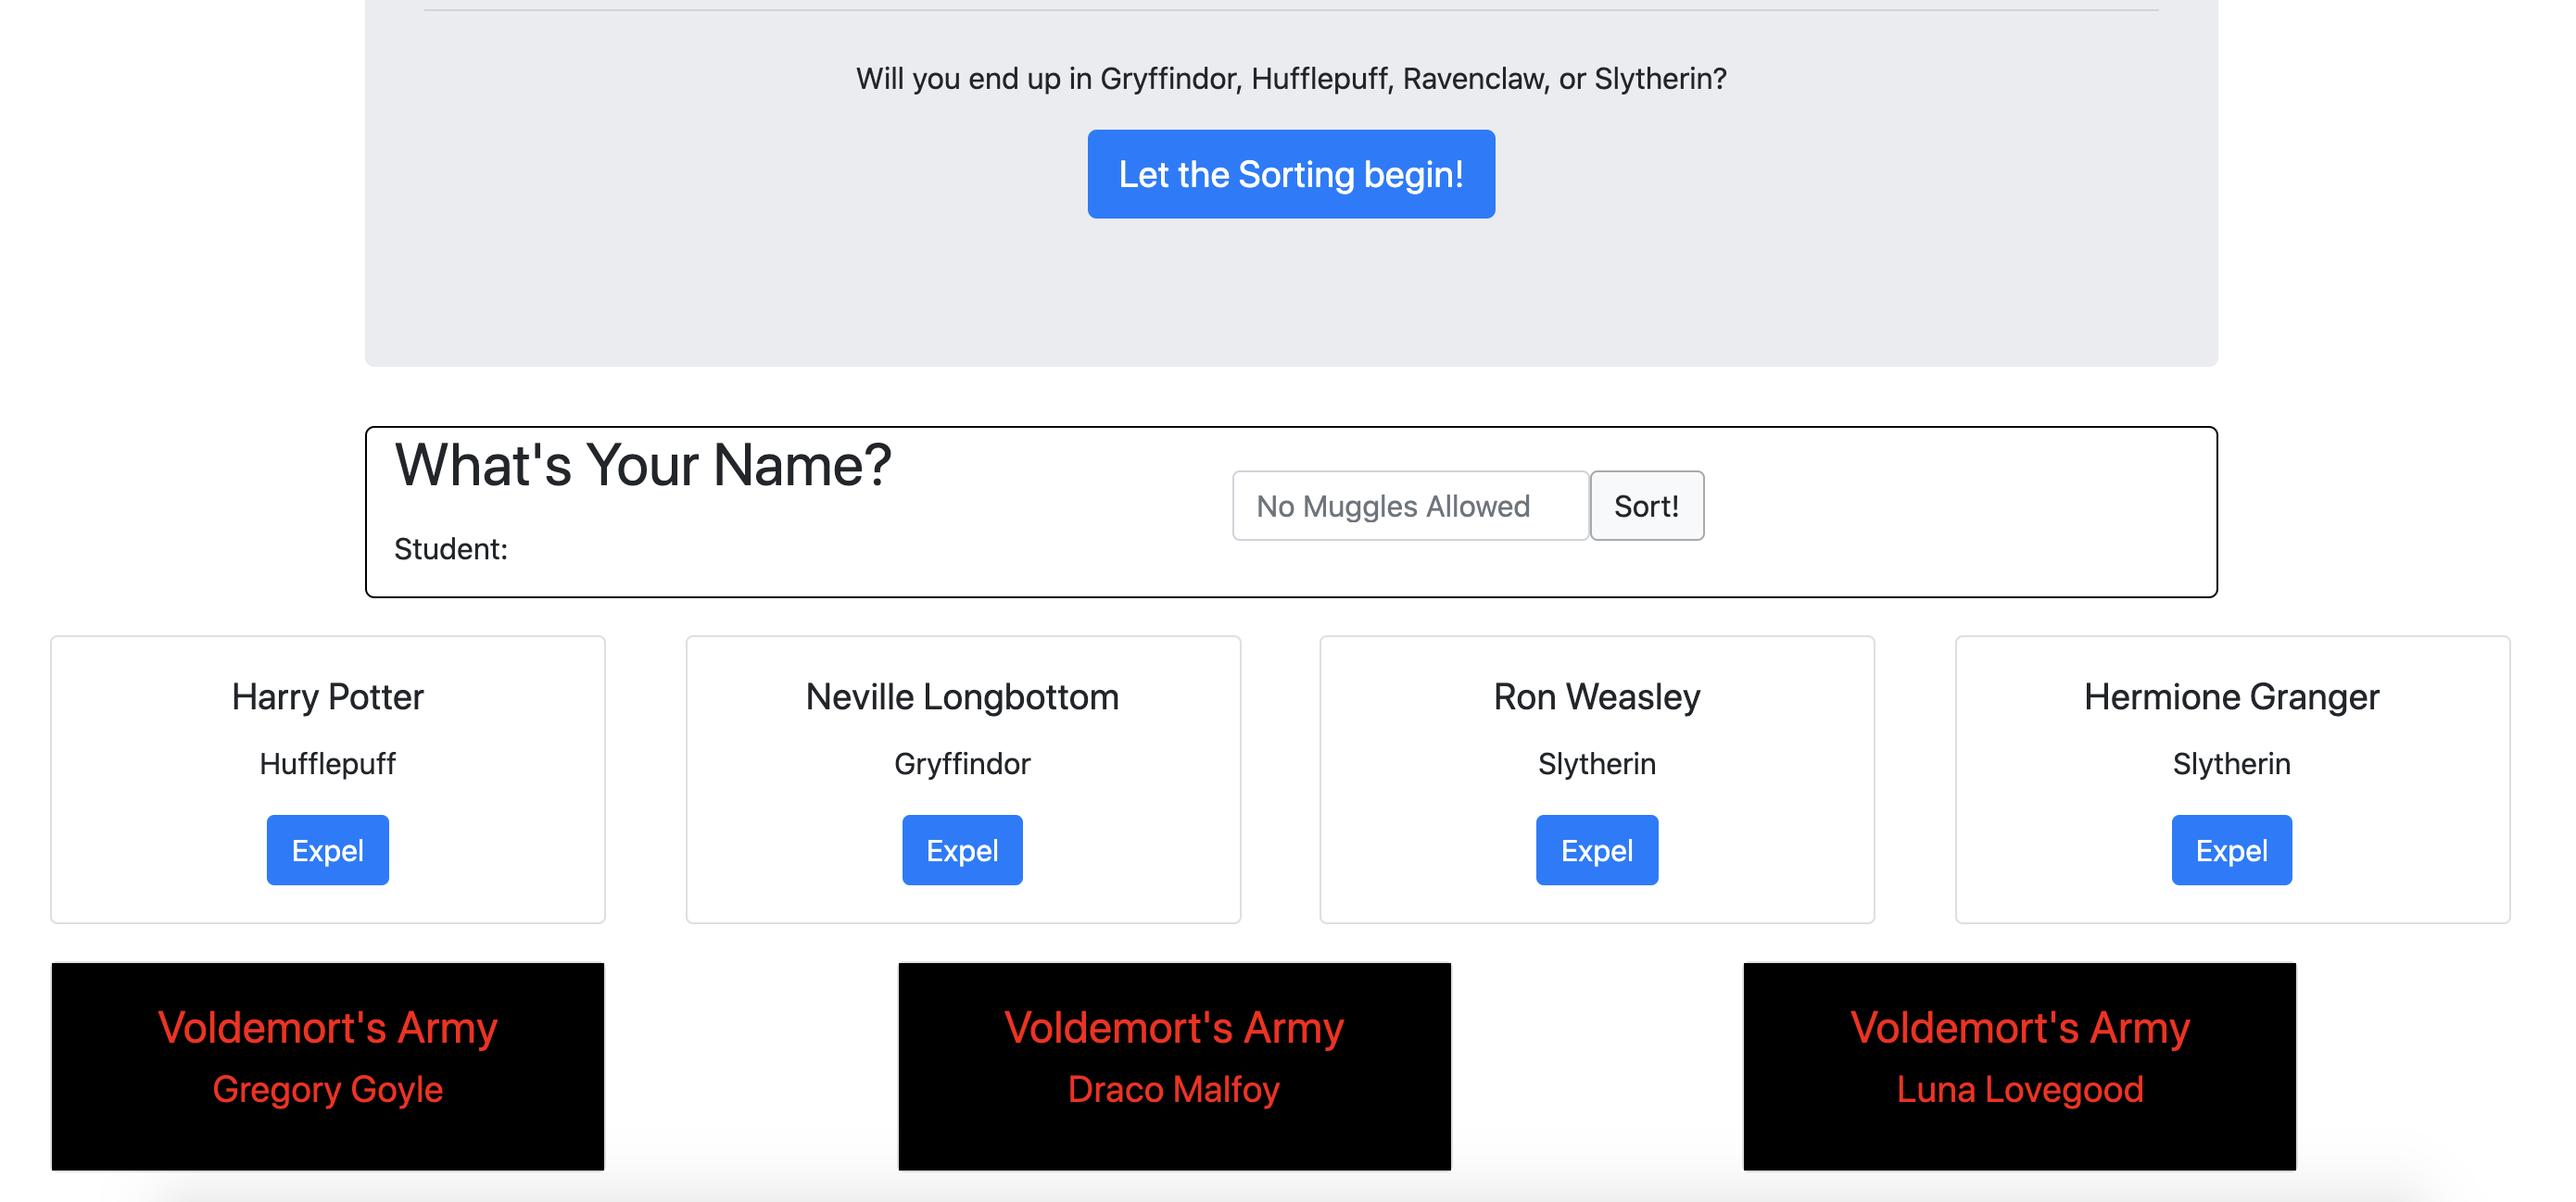
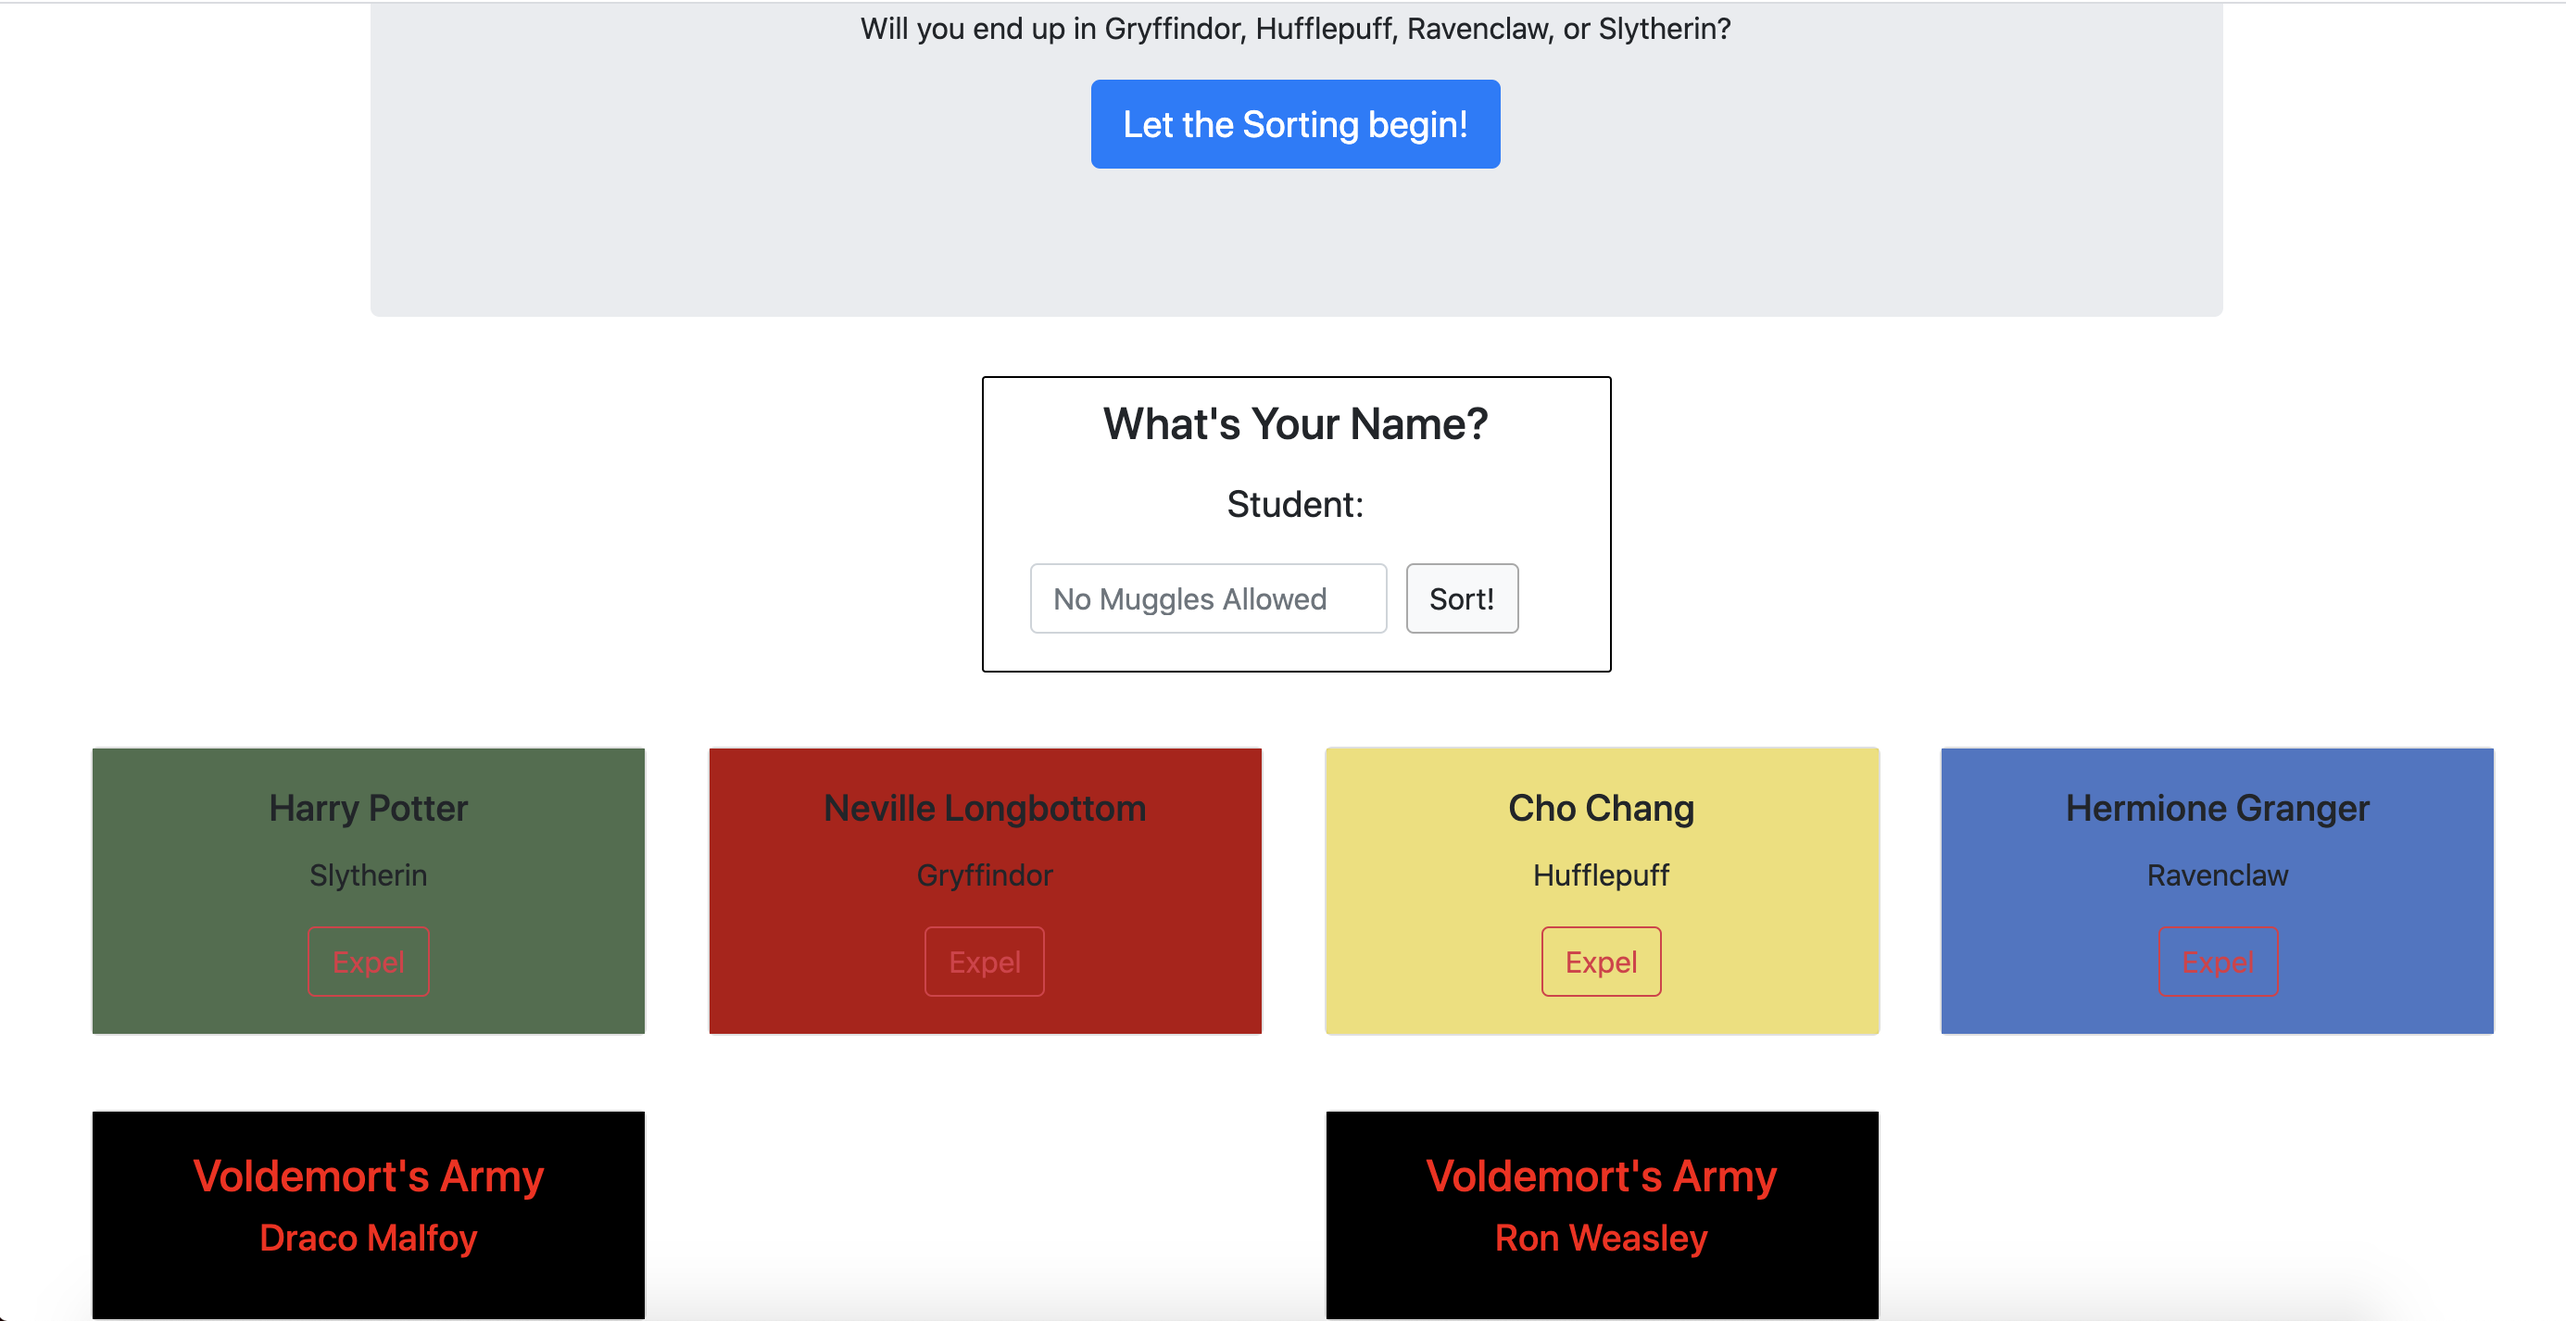
changes styling and updates README

diff --git a/main.css b/main.css
@@ -4,15 +4,28 @@
 
 #firstForm {
   border: .6px solid black;
-  border-radius: 5px;
+  border-radius: 2px;
   text-align: center;
-  max-width: 1000px;
+  max-width: 340px;
   margin-left: auto;
   margin-right: auto;
+  padding: 10px;
+}
+
+h4 {
+  margin-left: auto;
+  margin-right: auto;
+  text-align: center;
+}
+
+#staticEmail2 {
+  font-size: 1.25em;
+  text-align: center;
 }
 
 #startSort {
   border: 1px solid darkgray;
+  margin: 10px;
 }
 
 .jumbotron {
@@ -28,26 +41,27 @@
 .card {
   width: 300px;
   text-align: center;
+  margin-top: 20px;
 }
 
 .col {
   width: 350px;
 }
 
-#gryffindor {
-  background-color: red;
+.Gryffindor {
+  background-color: rgb(180, 12, 12);
 }
 
-#hufflepuff {
-  background-color: yellow;
+.Hufflepuff {
+  background-color: rgba(231, 213, 48, 0.74);
 }
 
-#ravenclaw {
-  background-color: blue;
+.Ravenclaw {
+  background-color: rgb(74, 117, 197);
 }
 
-#slytherin {
-  background-color: green;
+.Slytherin {
+  background-color: rgb(77, 110, 77);
 }
 
 .expelled-students {

diff --git a/index.html b/index.html
@@ -30,13 +30,13 @@
     </p>
   </div>
   <div id=firstForm style=display:none>
-    <form class="form-inline container-fluid" name="myForm">
-      <div class="form-group mb-2">
-        <h2>What's Your Name?</h2>
+    <form class="form-inline" name="myForm">
+      <div class="form-group col-sm">
+        <h4>What's Your Name?</h4>
         <label for="staticEmail2" class="sr-only"></label>
         <input type="text" readonly class="form-control-plaintext" id="staticEmail2" value="Student:">
       </div>
-      <div class="form-group mx-sm-3 mb-2">
+      <div class="form-group col-sm">
         <label for="studentName" class="sr-only"></label>
         <input type="text" name="fName" class="form-control" id="studentName" placeholder="No Muggles Allowed">  
         <button id="startSort" type="submit" class="btn btn-light">Sort!</button> 

diff --git a/main.js b/main.js
@@ -66,16 +66,17 @@ const buildStudentCards = (studentArray) => {
     domString += `
       <div class="col">
         <div class="card">
-          <div class="card-body">
+          <div class="card-body ${studentArray[i].house}">
             <h5 class="card-title">${studentArray[i].name}</h5>
             <p class="card-text">${studentArray[i].house}</p>
-            <button id =${studentArray[i].uniqueId} class="btn btn-primary expel">Expel</button>
+            <button id =${studentArray[i].uniqueId} class="btn btn-outline-danger expel">Expel</button>
           </div>
         </div>
       </div>
       `;
   }
   domString += '</div>'
+  
 
   
   printToDom("students", domString)

diff --git a/README.md b/README.md
@@ -7,7 +7,8 @@ This is a Harry Potter-themed homework assignment to practice using Bootstrap an
 * Randomly assigns any name you give it to one of the four Hogwarts houses
 * Prevents sorting a null value for a name
 * Expel button deletes sorted student 
-* Expelled students reappear as members of Voldemort's Army
+* The background color of each card prints with the corresponding color of the house into which they were sorted.
+* Expelled students reappear as members of Voldemort's Army with different styling
 
 ### How To Run
 1. Clone the repo to have it on your local machine
@@ -19,7 +20,3 @@ This is a Harry Potter-themed homework assignment to practice using Bootstrap an
 
 ### Contributors
 * [Jeanine Beckle](https://github.com/jeaninebeckle)
-
-### TODO
-* Change background color of student cards to one of four colors based on what house they're in
-* Improve styling/layout of content in the "What's Your Name" box
